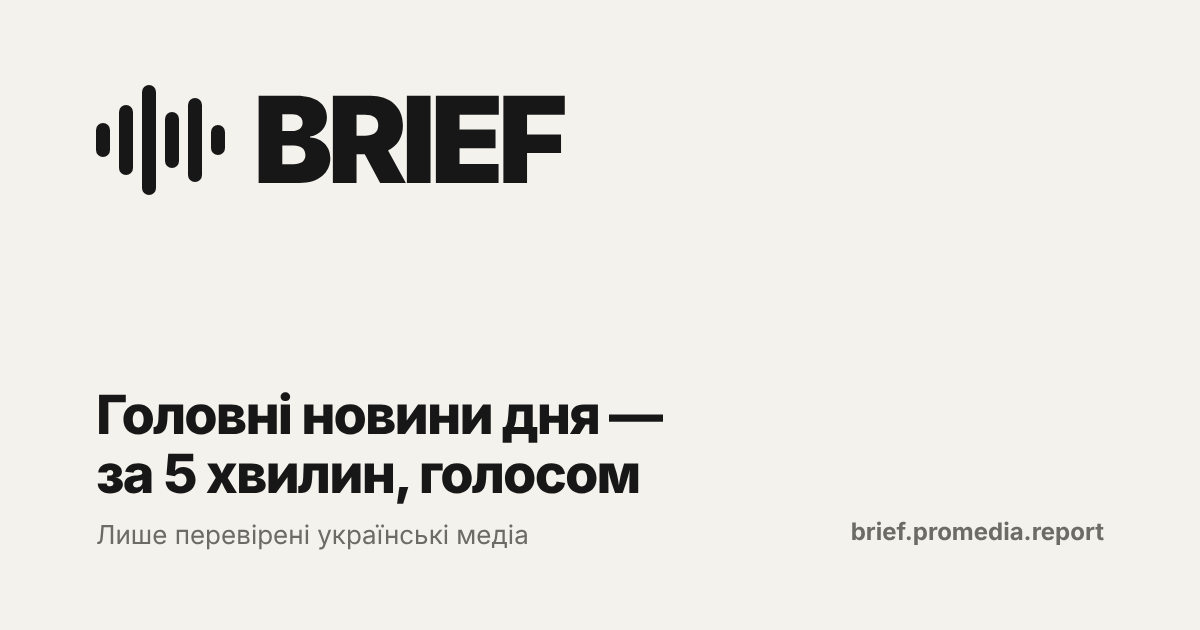
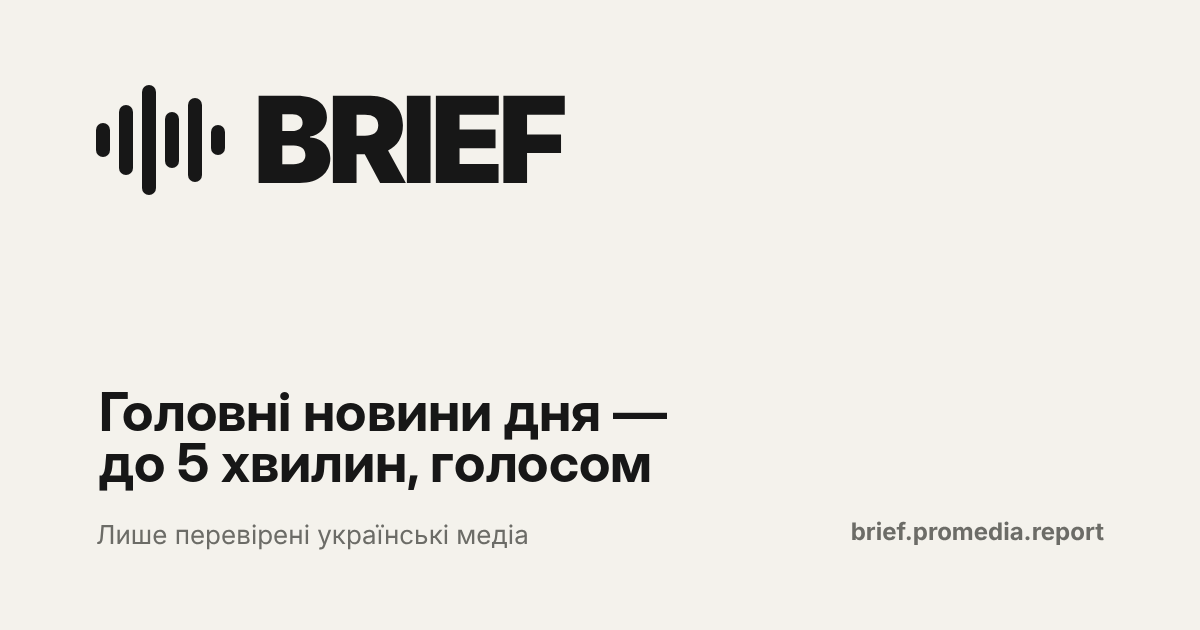
One press plays the whole edition; "до 5 хвилин" instead of "за 5 хвилин"
- Home player: one play button and one progress bar for the whole edition, no
  previous/next buttons and no per-file browser bar. Until the listener saves their
  topics and region it plays the full daily mp3; after that the same stories play back
  to back in their order, under the same bar, with a short pause between them.
- Site texts and the share card (og.png) say "до 5 хвилин".
- Edition description no longer says how many stories were retold.
- demo.html title: "випуск дня" instead of "демо-випуск".
- AGENTS.md status updated; tests for the one-press player and the length wording.

Claude-Session: https://claude.ai/code/session_01Xiv7EhJ6hq344exeXL6mdi

Changed region(s): [[0.0617, 0.6333, 0.555, 0.8143]]

diff --git a/index.html b/index.html
@@ -5,16 +5,16 @@
 <link rel="icon" href="/favicon.svg?v=20261030c" type="image/svg+xml" />
 <meta name="viewport" content="width=device-width,initial-scale=1" />
 <title>BRIEF by ProMedia — головне з українських медіа в аудіо</title>
-<meta name="description" content="Головні новини дня — за 5 хвилин, голосом. Лише перевірені українські медіа." />
+<meta name="description" content="Головні новини дня — до 5 хвилин, голосом. Лише перевірені українські медіа." />
 <meta property="og:type" content="website" />
 <meta property="og:site_name" content="BRIEF" />
-<meta property="og:title" content="BRIEF — головні новини дня за 5 хвилин" />
-<meta property="og:description" content="Головні новини дня — за 5 хвилин, голосом. Лише перевірені українські медіа." />
+<meta property="og:title" content="BRIEF — головні новини дня до 5 хвилин" />
+<meta property="og:description" content="Головні новини дня — до 5 хвилин, голосом. Лише перевірені українські медіа." />
 <meta property="og:url" content="https://brief.promedia.report/" />
 <meta property="og:image" content="https://brief.promedia.report/og.png" />
 <meta property="og:image:width" content="1200" />
 <meta property="og:image:height" content="630" />
-<meta property="og:image:alt" content="BRIEF — головні новини дня за 5 хвилин, голосом" />
+<meta property="og:image:alt" content="BRIEF — головні новини дня до 5 хвилин, голосом" />
 <meta property="og:locale" content="uk_UA" />
 <meta name="twitter:card" content="summary_large_image" />
 <meta name="twitter:image" content="https://brief.promedia.report/og.png" />
@@ -28,8 +28,8 @@ button,input{font:inherit}.app{max-width:480px;margin:auto;min-height:100vh;back
 <header class="top"><a class="brand" href="./" onclick="go('home');return false" aria-label="BRIEF — на головну" style="color:inherit;text-decoration:none">BRIEF <span style="font-size:12px;letter-spacing:0;color:var(--muted);font-weight:700">by ProMedia</span></a><div class="pill">AUDIO MVP 0.2</div></header>
 
 <section id="home" class="screen active">
-<div class="hero"><h1>Все важливе.<br>За 5 хвилин.</h1><p class="muted">Головне з перевірених українських медіа — у щоденному аудіовипуску.</p></div>
-<div class="audio" id="demoCard" style="display:none"><div class="eyebrow" style="color:#aaa" id="demoEyebrow">BRIEF · аудіовипуск</div><h2 style="margin-top:8px" id="demoTitle">Демо-випуск</h2><audio id="demoPlayer" controls preload="metadata" style="width:100%;margin-top:6px"></audio><div id="demoNav" style="display:none;margin-top:8px"><div class="tiny" style="color:#ddd" id="demoNow"></div><div class="audio-row" style="margin-top:8px;gap:8px"><button class="pill" style="color:#fff;background:transparent;border-color:#444" onclick="demoStep(-1)">⏮ Попередній</button><button class="pill" style="color:#fff;background:transparent;border-color:#444" onclick="demoStep(1)">Наступний ⏭</button></div></div><div class="tiny" style="color:#aaa;margin-top:8px"><span id="demoMeta"></span> · <a href="demo.html" style="color:#fff">текст і джерела →</a></div></div>
+<div class="hero"><h1>Все важливе.<br>До 5 хвилин.</h1><p class="muted">Головне з перевірених українських медіа — у щоденному аудіовипуску.</p></div>
+<div class="audio" id="demoCard" style="display:none"><div class="eyebrow" style="color:#aaa" id="demoEyebrow">BRIEF · аудіовипуск</div><h2 style="margin-top:8px" id="demoTitle">Демо-випуск</h2><div class="audio-row"><button class="play" id="demoPlay" onclick="demoToggle()" aria-label="Слухати весь випуск">▶</button><div style="min-width:0"><b id="demoNow">Слухати весь випуск</b><div class="tiny" style="color:#aaa" id="demoTime">—</div></div></div><div class="bar" id="demoBar" style="cursor:pointer" role="slider" aria-label="Перемотати випуск" tabindex="0"><div class="prog" id="demoProg" style="width:0"></div></div><audio id="demoPlayer" preload="metadata"></audio><div class="tiny" style="color:#aaa;margin-top:10px"><span id="demoMeta"></span> · <a href="demo.html" style="color:#fff">текст і джерела →</a></div></div>
 <!-- daily automatic edition: hidden on the home page (owner, 2026-10-22); its player still serves the «Бриф» tab -->
 <div class="audio" id="dailyCard" style="display:none"><div class="eyebrow" style="color:#aaa" id="editionDate">завантаження…</div><h2 style="margin-top:8px" id="nowTitle">Випуск BRIEF</h2><div class="audio-row"><button class="play" onclick="togglePlay()" id="playBtn" aria-label="Відтворити або призупинити">▶</button><div><b id="storyCount">—</b><div class="tiny" style="color:#aaa" id="audioStatus">—</div></div></div><div class="bar"><div class="prog" id="audioProgress" style="width:0"></div></div>
 <div class="audio-row" style="margin-top:12px;gap:8px"><button class="pill" style="color:#fff;background:transparent;border-color:#444" onclick="step(-1)">⏮ Попередній</button><button class="pill" style="color:#fff;background:transparent;border-color:#444" onclick="step(1)">Наступний ⏭</button></div>
@@ -107,7 +107,7 @@ function savePrefs(){
   region=document.getElementById('regionSelect').value; shortMode=document.getElementById('shortMode').checked;
   store.set('brief-topic-weights',weights); store.set('brief-region',region); store.set('brief-short',shortMode);
   store.set('brief-prefs-saved',true); summary(); go('home');
-  if(featured){setDemo(featured, true); if(demoList.length&&dp.paused) dp.play().catch(()=>{})}
+  if(featured){setDemo(featured, true); if(dp.paused) dp.play().catch(()=>{})}
 }
 
 // Personalisation without per-user TTS: one rendered edition, segments re-ordered per listener.
@@ -207,11 +207,15 @@ async function loadSources(){
 function go(id){document.querySelectorAll('.screen').forEach(s=>s.classList.toggle('active',s.id===id));document.querySelectorAll('.nav button').forEach(b=>b.classList.toggle('active',b.dataset.screen===id));window.scrollTo({top:0,behavior:'smooth'})}
 renderTopics(); loadSources(); loadRegions();
 // The featured edition (demo/index.json) in the one player on the home screen.
-// A daily edition comes as separate stories: they play in the listener's order — the day's two
-// top stories first, then stories of their region and starred topics, then the rest
-// (left out in the short mode). One rendered edition for everyone, no per-user voicing.
-let featured=null, demoList=[], demoIdx=0;
+// One press plays the whole edition, start to finish, under one progress bar — no paging through
+// stories (owner, 2026-11-13). In the editorial order it is the one full mp3 (intro and outro
+// jingles included). When the listener's region or starred topics change the order (or the short
+// mode leaves stories out), the same rendered stories play back to back: the day's two top
+// stories first, then stories of their region and starred topics, then the rest.
+let featured=null, demoList=[], demoIdx=0, demoSeekTo=null, demoGap=null;
 const dp=document.getElementById('demoPlayer');
+const PAUSE_BETWEEN_SEC=1.0;  // a clear gap between stories, as in the full mp3
+function fmt(s){s=Math.max(0,Math.round(s||0));return Math.floor(s/60)+':'+String(s%60).padStart(2,'0')}
 function personalOrder(d){
   const segs=d.segments, stories=segs.filter(s=>s.kind==='story');
   const w=s=>Math.max(0,...(s.topics||[]).map(weightOf))+(region&&(s.regions||[]).includes(region)?4:0);
@@ -221,34 +225,78 @@ function personalOrder(d){
   return [sonic.intro&&{audio:sonic.intro,kind:'sound'}, ...segs.filter(s=>s.kind==='intro'), ...stories.slice(0,2), ...picked,
           ...segs.filter(s=>s.kind==='outro'), sonic.outro&&{audio:sonic.outro,kind:'sound'}].filter(Boolean);
 }
-function demoLoad(i){
+function editionList(d){
+  const full=[{audio:d.audio,kind:'full',duration_sec:d.duration_sec}];
+  // until the listener saves their own topics and region, everyone hears the editorial order
+  if(!store.get('brief-prefs-saved',false)||!(d.segments.length&&d.segments.every(s=>s.audio))) return full;
+  const list=personalOrder(d);
+  const ids=a=>a.filter(s=>s.kind==='story').map(s=>s.id).join(',');
+  return ids(list)===ids(d.segments)?full:list;  // the editorial order: the full mp3 with its own pauses
+}
+const durOf=p=>p.duration_sec||0;
+const demoTotal=()=>demoList.reduce((a,p)=>a+durOf(p),0);
+const demoOffset=i=>demoList.slice(0,i).reduce((a,p)=>a+durOf(p),0);
+function demoShow(){
+  const total=demoTotal(), pos=Math.min(total,demoOffset(demoIdx)+(dp.currentTime||0));
+  document.getElementById('demoProg').style.width=(total?pos/total*100:0)+'%';
+  document.getElementById('demoTime').textContent=`${fmt(pos)} / ${fmt(total)}`;
+  const playing=!dp.paused||demoGap!==null;
+  document.getElementById('demoPlay').textContent=playing?'❚❚':'▶';
+  const p=demoList[demoIdx];
+  document.getElementById('demoNow').textContent=playing&&p&&p.kind==='story'&&p.title?p.title:(playing?'Звучить випуск':'Слухати весь випуск');
+}
+function demoLoad(i,at){
   demoIdx=Math.max(0,Math.min(i,demoList.length-1));const p=demoList[demoIdx];
   dp.src=p.audio+'?v='+encodeURIComponent(featured.script_sha256||featured.date);
-  const stories=demoList.filter(x=>x.kind==='story'), n=stories.indexOf(p)+1;
-  document.getElementById('demoNow').textContent=p.kind==='story'?`Новина ${n} з ${stories.length}: ${p.title||''}`:(p.kind==='outro'?'Завершення':'Вступ');
+  demoSeekTo=at||null; demoShow();
 }
-function demoStep(d){if(!demoList.length)return;const playing=!dp.paused;demoLoad(demoIdx+d);if(playing)dp.play()}
-dp.addEventListener('ended',()=>{if(demoList.length&&demoIdx<demoList.length-1){demoLoad(demoIdx+1);dp.play()}else if(demoList.length){demoLoad(0)}});
+function demoStop(){clearTimeout(demoGap);demoGap=null}
+function demoToggle(){
+  if(!demoList.length)return;
+  if(!dp.paused||demoGap!==null){demoStop();dp.pause()}else{dp.play().catch(()=>{})}
+  demoShow();
+}
+dp.addEventListener('loadedmetadata',()=>{
+  const p=demoList[demoIdx];
+  if(p&&!p.duration_sec&&isFinite(dp.duration)) p.duration_sec=dp.duration;  // the jingles carry no length in the JSON
+  if(demoSeekTo!==null){dp.currentTime=Math.min(demoSeekTo,dp.duration||demoSeekTo);demoSeekTo=null}
+  demoShow();
+});
+['timeupdate','play','pause'].forEach(ev=>dp.addEventListener(ev,demoShow));
+dp.addEventListener('ended',()=>{
+  if(demoIdx<demoList.length-1){
+    const next=demoIdx+1, story=demoList[next].kind==='story';
+    demoLoad(next);  // same element, already started by the listener's press: the next part may start by itself
+    demoGap=setTimeout(()=>{demoGap=null;dp.play().catch(()=>{});demoShow()}, story?PAUSE_BETWEEN_SEC*1000:0);
+  }else{demoLoad(0)}
+  demoShow();
+});
+function demoSeek(frac){
+  if(!demoList.length)return;
+  const t=Math.max(0,Math.min(1,frac))*demoTotal(); let i=0;
+  while(i<demoList.length-1&&demoOffset(i+1)<=t) i++;
+  const playing=!dp.paused||demoGap!==null; demoStop();
+  if(i===demoIdx&&dp.readyState>0){dp.currentTime=t-demoOffset(i)}else{demoLoad(i,t-demoOffset(i))}
+  if(playing) dp.play().catch(()=>{});
+  demoShow();
+}
+const bar=document.getElementById('demoBar');
+bar.addEventListener('click',e=>{const r=bar.getBoundingClientRect();demoSeek((e.clientX-r.left)/r.width)});
+bar.addEventListener('keydown',e=>{const t=demoTotal();if(!t)return;const pos=demoOffset(demoIdx)+(dp.currentTime||0);
+  if(e.key==='ArrowRight'){demoSeek((pos+10)/t);e.preventDefault()}if(e.key==='ArrowLeft'){demoSeek((pos-10)/t);e.preventDefault()}});
 function setDemo(d, keepPosition){
   const [y,m,dd]=d.date.split('-');
   document.getElementById('demoTitle').textContent=`Випуск за ${dd}.${m}.${y}`;
   document.getElementById('demoEyebrow').textContent=d.variant==='daily'?'BRIEF · щоденний випуск':'BRIEF · тестовий аудіовипуск';
-  let sec=d.duration_sec, extra='';
-  if(d.segments.length&&d.segments.every(s=>s.audio)){
-    const current=demoList[demoIdx], wasPlaying=!dp.paused;
-    demoList=personalOrder(d);
-    sec=demoList.reduce((a,p)=>a+(p.duration_sec||0),0)+8;
-    const personal=store.get('brief-prefs-saved',false)&&(TOPICS.some(t=>weightOf(t))||region);
-    extra=personal?' · у порядку ваших тем і регіону':'';
-    document.getElementById('demoNav').style.display='';
-    // after new settings: keep playing the same story if it is still in the list, else start over
-    const at=keepPosition&&current?demoList.indexOf(current):-1;
-    demoLoad(at>=0?at:0); if(wasPlaying) dp.play();
-  }else{
-    demoList=[];
-    dp.src=d.audio+'?v='+encodeURIComponent(d.script_sha256||d.date)+'-female108';
-  }
-  document.getElementById('demoMeta').textContent=`${Math.max(1,Math.round(sec/60))} хв${d.provider==='elevenlabs'?' · озвучення ElevenLabs':''}${extra}`;
+  const current=demoList[demoIdx], wasPlaying=!dp.paused||demoGap!==null;
+  demoStop();
+  demoList=editionList(d);
+  // after new settings: keep playing the same story if it is still in the list, else start over
+  const at=keepPosition&&current?demoList.findIndex(p=>p.audio===current.audio):-1;
+  demoLoad(at>=0?at:0, at>=0?dp.currentTime:null); if(wasPlaying) dp.play().catch(()=>{});
+  const personal=demoList[0].kind!=='full';
+  document.getElementById('demoMeta').textContent=`${d.provider==='elevenlabs'?'Озвучення ElevenLabs':'Аудіовипуск'}${personal?' · у порядку ваших тем і регіону':''}`;
+  if('mediaSession' in navigator) navigator.mediaSession.metadata=new MediaMetadata({title:`BRIEF за ${dd}.${m}.${y}`,artist:'BRIEF by ProMedia'});
   document.getElementById('demoCard').style.display='';
 }
 (async()=>{

diff --git a/demo.html b/demo.html
@@ -4,17 +4,17 @@
 <meta charset="utf-8" />
 <link rel="icon" href="/favicon.svg?v=20261030c" type="image/svg+xml" />
 <meta name="viewport" content="width=device-width,initial-scale=1" />
-<title>BRIEF — демо-випуск</title>
-<meta name="description" content="Головні новини дня — за 5 хвилин, голосом. Лише перевірені українські медіа." />
+<title>BRIEF — випуск дня</title>
+<meta name="description" content="Головні новини дня — до 5 хвилин, голосом. Лише перевірені українські медіа." />
 <meta property="og:type" content="website" />
 <meta property="og:site_name" content="BRIEF" />
-<meta property="og:title" content="BRIEF — демо-випуск" />
-<meta property="og:description" content="Головні новини дня — за 5 хвилин, голосом. Лише перевірені українські медіа." />
+<meta property="og:title" content="BRIEF — випуск дня" />
+<meta property="og:description" content="Головні новини дня — до 5 хвилин, голосом. Лише перевірені українські медіа." />
 <meta property="og:url" content="https://brief.promedia.report/demo.html" />
 <meta property="og:image" content="https://brief.promedia.report/og.png" />
 <meta property="og:image:width" content="1200" />
 <meta property="og:image:height" content="630" />
-<meta property="og:image:alt" content="BRIEF — головні новини дня за 5 хвилин, голосом" />
+<meta property="og:image:alt" content="BRIEF — головні новини дня до 5 хвилин, голосом" />
 <meta property="og:locale" content="uk_UA" />
 <meta name="twitter:card" content="summary_large_image" />
 <meta name="twitter:image" content="https://brief.promedia.report/og.png" />

diff --git a/brief/featured.py b/brief/featured.py
@@ -53,7 +53,6 @@ def feature(date, variant=SUFFIX, require_asr=True):
         regions = list(dict.fromkeys(r for a in src for r in a.get("regions", [])))
         return {"topics": topics, "regions": regions}
 
-    retold = spoken["retold"]
     write_json(DEMO / f"{name}.json", {
         "date": date,
         "variant": SUFFIX,
@@ -65,9 +64,8 @@ def feature(date, variant=SUFFIX, require_asr=True):
         "duration_sec": render["duration_sec"],
         "asr_mean_cer": asr.get("mean_cer") if asr else None,
         "approved_by": "Автоматичний випуск: кожне число й назва звірені з першоджерелами",
-        "description": (f"Щоденний випуск BRIEF. {retold} з {spoken['stories']} сюжетів переказано для "
-                        "усного мовлення; кожне число, назва й цитата звірені з публікаціями. "
-                        "Посилання на першоджерела — під кожним сюжетом."),
+        "description": (f"Щоденний випуск BRIEF. Новин у випуску: {spoken['stories']}. Кожне число, назва й "
+                        "цитата звірені з публікаціями. Посилання на першоджерела — під кожною новиною."),
         "script_sha256": spoken["script_sha256"],
         "sonic": {"intro": "audio/intro.mp3", "outro": "audio/outro.mp3"},
         "segments": [{"id": seg["id"], "kind": seg["kind"], "block": seg["block"], "title": seg.get("title"),

diff --git a/tests/test_single_featured_player.py b/tests/test_single_featured_player.py
@@ -27,3 +27,19 @@ def test_old_standalone_url_uses_same_player():
     html = (ROOT / "brief-2026-10-29.html").read_text(encoding="utf-8")
     assert 'url=/demo.html' in html
     assert "<audio" not in html
+
+
+def test_one_press_plays_the_whole_edition():
+    """No paging through stories: one button, one progress bar for the whole edition (owner, 2026-11-13)."""
+    html = (ROOT / "index.html").read_text(encoding="utf-8")
+    card = html[html.index('id="demoCard"'):html.index('<!-- daily automatic edition')]
+    assert "Наступний" not in card and "Попередній" not in card
+    assert 'id="demoPlay"' in card and 'id="demoBar"' in card
+    assert "controls" not in card  # the browser's own per-file bar would show one story at a time
+    assert "brief-prefs-saved" in html[html.index("function editionList"):]  # editorial order = the full mp3
+
+
+def test_no_overpromise_on_length():
+    for name in ("index.html", "demo.html"):
+        html = (ROOT / name).read_text(encoding="utf-8")
+        assert "за 5 хвилин" not in html.lower()
